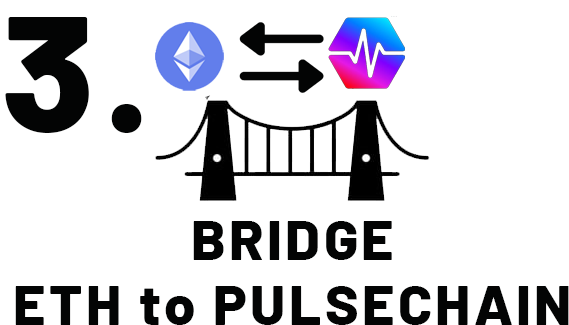
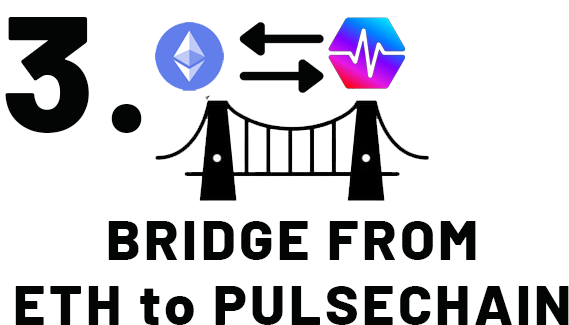
update

Changed region(s): [[0.1793, 0.6769, 0.8366, 0.8]]

diff --git a/index.html b/index.html
@@ -287,7 +287,7 @@
               <img src="images/steps/2.png" alt="step 2" />
             </div>
             <div class="step">
-              <img src="images/steps/3.png" alt="step 3" />
+              <img src="images/steps/3.png?v=2" alt="step 3" />
             </div>
             <div class="step">
               <img src="images/steps/4.png" alt="step 4" />
@@ -298,21 +298,17 @@
           </div>
           <br />
           <h3>Your PSA DeFi Guide to Crypto</h3>
-          <p>
-            Quick guide for advanced users
-            <a
-              href="https://www.youtube.com/watch?v=gFxW016rsX4"
-              target="_blank"
-              >click here</a
-            >
-          </p>
+          <div class="buttonG">
+            <a href="#beginner-guide">Beginners</a>
+            <a href="#advanced-guide">Advanced</a>
+          </div>
 
           <br /><br />
         </div>
-
+        <h3 class="accordian-title">Beginners Guide</h3>
         <div
           class="accordion"
-          id="accordionExample"
+          id="beginner-guide"
           style="max-width: 750px; margin: 0 auto"
         >
           <div class="accordion-item">
@@ -889,6 +885,123 @@
               </div>
             </div>
           </div>
+        </div>
+
+        <h3 class="accordian-title" style="margin-top: 40px">Advanced Guide</h3>
+        <div id="advanced-guide">
+          <div
+            class="accordion"
+            id="advanced-guide"
+            style="max-width: 750px; margin: 0 auto"
+          >
+		  <div class="accordion-item">
+            <h2 class="accordion-header">
+              <button
+                class="accordion-button collapsed"
+                type="button"
+                data-bs-toggle="collapse"
+                data-bs-target="#adv1"
+                aria-expanded="false"
+                aria-controls="adv1"
+              >
+                Buy, Swap & Bridge
+              </button>
+            </h2>
+            <div id="adv1" class="accordion-collapse collapse">
+              <div class="accordion-body">
+                <h3>Overview Video</h3>
+				<h4>This covers the process of getting ETH over to PulseChain as PLS</h4>
+				<p>After this you can swap token's of your choosing for NACHO. (WPLS, PLSX, DAI, USDC, etc...) Here is the NACHO Token Address to add to your preferred swapping software.                     <code>0x8B5C1c2cB52dfb471c3ed758f6e863364636bd75</code>
+				</p>
+
+				<iframe width="560" height="315" src="https://www.youtube.com/embed/LcY5rhjbEBw?si=zriLkx1gb_nBIKHn" title="YouTube video player" frameborder="0" allow="accelerometer; autoplay; clipboard-write; encrypted-media; gyroscope; picture-in-picture; web-share" allowfullscreen></iframe>
+
+				<iframe width="560" height="315" src="https://www.youtube.com/embed/gFxW016rsX4?si=vW70y0X0Ev8MqLbK" title="YouTube video player" frameborder="0" allow="accelerometer; autoplay; clipboard-write; encrypted-media; gyroscope; picture-in-picture; web-share" allowfullscreen></iframe>
+              </div>
+            </div>		
+		</div>
+
+
+		<div class="accordion-item">
+            <h2 class="accordion-header">
+              <button
+                class="accordion-button collapsed"
+                type="button"
+                data-bs-toggle="collapse"
+                data-bs-target="#adv2"
+                aria-expanded="false"
+                aria-controls="adv2"
+              >
+                Add Liquidity
+              </button>
+            </h2>
+            <div id="adv2" class="accordion-collapse collapse">
+              <div class="accordion-body">
+                <h3>Add Liquidity to NACHO!</h3>
+
+				<p>After this you will earn a portion of transaction fees for providing liquidity.
+				</p>
+
+				<ol>
+					<li>Go to the <a href="https://pulsex.mypinata.cloud/ipfs/bafybeidea3ibq4lu5t6vk6ihp4iuznjb3ltsdm5y2shv4atxgyd3d33aim/" target="_blank">PULSEX</a> exchange or run the software yourself by downloading it from <a href="https://pulsex.com" target="_blank"></a>pulsex.com</li>
+					<li>Click on Liquidity</li>
+					<li>Supply to the pair of your choice, lets start with WPLS</li>
+					<li>Switch to V2!!! And ensure you stay on V2 the whole time</li>
+					<li>Select NACHO in the top dropdown</li>
+					<li>Select WPLS in the secondary Dropdown</li>
+					<li>You need to then confirm with MetaMask access to your NACHO and WPLS separately.</li>
+					<li>After this step you can confirm adding liquidity</li>
+					<li>You can view your provided liquidity and withdraw it at any time by viewing your liquidity pools</li>
+				</ol>
+
+				<img src="images/howto/addliquidity1.png" alt="Adding Liquidity">
+				<img src="images/howto/addliquidity2.png" alt="Adding Liquidity">
+
+
+              </div>
+            </div>		
+
+
+			<div class="accordion-item">
+				<h2 class="accordion-header">
+				  <button
+					class="accordion-button collapsed"
+					type="button"
+					data-bs-toggle="collapse"
+					data-bs-target="#adv3"
+					aria-expanded="false"
+					aria-controls="adv3"
+				  >
+					Run the BlockChain on Your Computer
+				  </button>
+				</h2>
+				<div id="adv3" class="accordion-collapse collapse">
+				  <div class="accordion-body">
+					<h3>Let's cut out the middlemen</h3>
+				
+	
+					<p>Its time to stop using other people's front end versions of the software to interact with the blockchain and run it all on your computer instead!
+					</p>
+	
+					<ol>
+						<li><a href="https://app.pulsex.com/" target="_blank"> Download the PulseX Exchange</a> - Swap Tokens, Provide Liquidity, Manage your Liquidity</li>
+						<li><a href="https://bridge.pulsechain.com/" target="_blank">Download The PulseChain Bridge</a> - Get your assets from Ethereum to the PulseChain</li>
+						<li><a href="https://scan.pulsechain.com/" target="_blank">Download the PulseChain Explorer</a> View transactions in real time and see wallet balances and </li>
+						<li><a href="https://launchpad.pulsechain.com/" target="_blank">Download Validator Software</a> - Run Validators to Secure the Network</li>
+					</ol>
+
+					<h3>Here is an example video of how to run the software</h3>
+
+					<iframe width="560" height="315" src="https://www.youtube.com/embed/3__lw2xEOHM?si=Hi60KKFaf5rMNF-E" title="YouTube video player" frameborder="0" allow="accelerometer; autoplay; clipboard-write; encrypted-media; gyroscope; picture-in-picture; web-share" allowfullscreen></iframe>
+	
+	
+				  </div>
+				</div>	
+
+
+
+		</div>
+
         </div>
 
         <div style="margin: 30px auto 0; max-width: 500px">

diff --git a/style.css b/style.css
@@ -740,3 +740,35 @@ span.caddress {
     background-position: top right;
   }
 }
+
+.buttonG {
+  display: flex;
+  align-items: center;
+  justify-content: center;
+}
+.buttonG a {
+  margin: 5px;
+  padding: 8px 16px;
+  background-color: orange;
+  color: #fff;
+  border-radius: 5px;
+  text-decoration: none;
+}
+.buttonG a:last-child {
+  background-color: darkorange;
+}
+.buttonG a:hover {
+  box-shadow: 0px 0px 10px rgb(252, 181, 28);
+}
+#advanced-guide {
+}
+.accordian-title {
+  max-width: 750px;
+  margin: 0 auto;
+  display: block;
+  font-size: 20px;
+  text-transform: uppercase;
+  font-family: "Righteous";
+  margin-bottom: 5px;
+  color: gray;
+}
